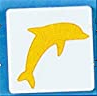
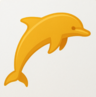
ajout bouton changerRack + message erreur + modif tuile dauphin

diff --git a/src/main/resources/style-jeu.css b/src/main/resources/style-jeu.css
@@ -1,0 +1,46 @@
+
+.label {
+    -fx-text-fill: #32aafa; 
+    -fx-font-size: 20px;
+    -fx-font-family: "Comic Sans MS", "Chalkboard SE", "Segoe Print", cursive;
+    -fx-font-weight: bold;
+    -fx-effect: dropshadow(gaussian, #FFFFFF, 3, 0.8, 0, 0),
+                 dropshadow(gaussian, #000000, 6, 0.8, 2, 2);
+    -fx-background-color: transparent;
+    -fx-padding: 10;
+}
+
+.text2 {
+    -fx-text-fill: #fe0303; 
+    -fx-font-size: 20px;
+    -fx-font-family: "Comic Sans MS", "Chalkboard SE", "Segoe Print", cursive;
+    -fx-font-weight: bold;
+    -fx-effect: dropshadow(gaussian, #FFFFFF, 3, 0.8, 0, 0),
+                 dropshadow(gaussian, #000000, 6, 0.8, 2, 2);
+    -fx-background-color: transparent;
+    -fx-padding: 10;
+}
+
+.button {
+    -fx-background-color: linear-gradient(#4CAF50, #2E7D32); 
+    -fx-text-fill: white;
+    -fx-font-size: 14px;
+    -fx-font-weight: bold;
+    -fx-padding: 10 20 10 20;
+    -fx-background-radius: 10;
+    -fx-border-radius: 10;
+    -fx-border-color: #1B5E20;
+    -fx-border-width: 2;
+    -fx-cursor: hand;
+}
+
+
+.button:hover {
+    -fx-background-color: linear-gradient(#66BB6A, #388E3C);
+}
+
+
+.button:pressed {
+    -fx-background-color: linear-gradient(#2E7D32, #1B5E20);
+    -fx-translate-y: 2;
+}

diff --git a/src/main/resources/styles-login.css b/src/main/resources/styles-login.css
@@ -1,0 +1,47 @@
+
+.title-label {
+    -fx-font-size: 50px;
+    -fx-font-weight: bold;
+    -fx-text-fill: #0d47a1;
+    -fx-padding: 20 0 30 0;
+}
+
+.root {
+    -fx-background-color: linear-gradient(to bottom, #e3f2fd, #90caf9);
+    -fx-padding: 20;
+}
+
+
+.label {
+    -fx-font-size: 18px;
+    -fx-font-weight: bold;
+    -fx-text-fill: #0d47a1;
+}
+
+
+.text-field, .password-field {
+    -fx-background-color: #ffffff;
+    -fx-border-color: #64b5f6;
+    -fx-border-radius: 5;
+    -fx-background-radius: 5;
+    -fx-padding: 6 10;
+    -fx-font-size: 14px;
+}
+
+.button {
+    -fx-background-color: #1976d2;
+    -fx-text-fill: white;
+    -fx-font-weight: bold;
+    -fx-background-radius: 5;
+    -fx-padding: 8 15;
+    -fx-font-size: 14px;
+}
+
+.button:hover {
+    -fx-background-color: #1565c0;
+}
+
+#errorLabel {
+    -fx-text-fill: red;
+    -fx-font-size: 12px;
+}
